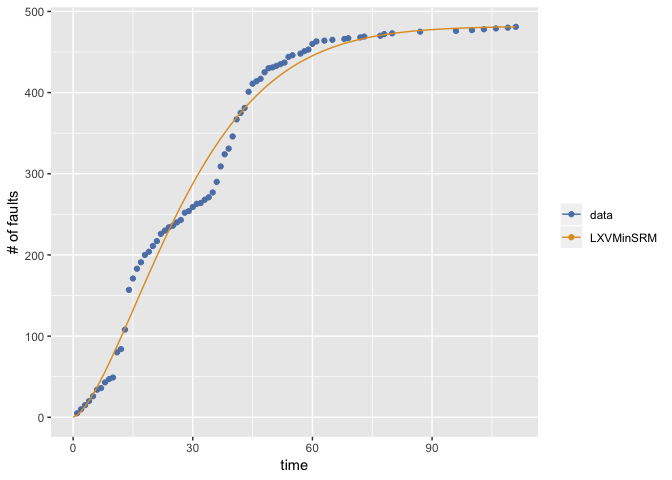
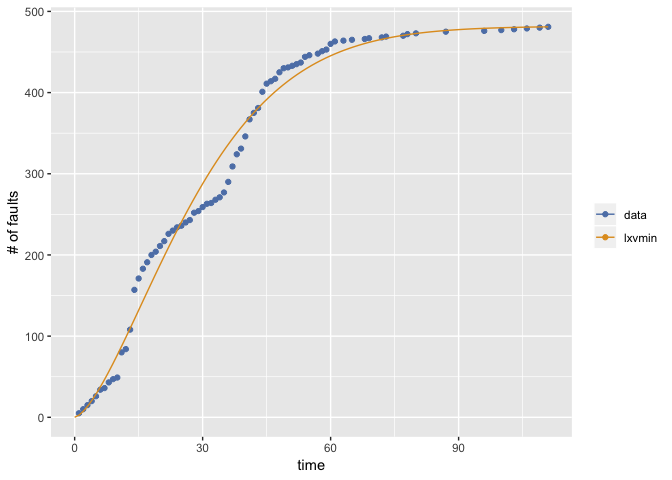
change model names and add the forth example

diff --git a/README.md b/README.md
@@ -43,7 +43,7 @@ tohma
 
 ### Esimate all models and select the best one in terms of AIC
 (result <- fit.srm.nhpp(fault=tohma))
-#> Model name: LXVMinSRM
+#> Model name: lxvmin
 #>    omega    loclog  scalelog  
 #> 481.7029   -3.4642    0.6637  
 #> Maximum LLF: -316.2599 
@@ -67,7 +67,7 @@ srm.models
 ### Estimate two models and no select
 (result <- fit.srm.nhpp(fault=tohma, srm.names=c("exp", "gamma"), selection=NULL))
 #> $exp
-#> Model name: ExpSRM
+#> Model name: exp
 #>    omega      rate  
 #> 497.2912    0.0308  
 #> Maximum LLF: -359.8777 
@@ -76,7 +76,7 @@ srm.models
 #> 
 #> 
 #> $gamma
-#> Model name: GammaSRM
+#> Model name: gamma
 #>     omega      shape       rate  
 #> 483.52301    1.88475    0.06447  
 #> Maximum LLF: -319.5695 
@@ -115,7 +115,7 @@ sys1
 (result <- fit.srm.nhpp(time=sys1[sys1>=0], te=-sys1[sys1<0]))
 #> Warning in emfit(srm, data, initialize = TRUE, maxiter = con$maxiter,
 #> reltol = con$reltol, : Did not converge to MLE by max iteration.
-#> Model name: LXVMinSRM
+#> Model name: lxvmin
 #>    omega    loclog  scalelog  
 #>  165.955   -10.640     1.453  
 #> Maximum LLF: 299.439 
@@ -127,3 +127,124 @@ mvfplot(time=sys1[sys1>=0], te=-sys1[sys1<0], mvf=list(result$srm))
 ```
 
 <img src="man/figures/README-example3-1.png" width="100%" />
+
+The fourth example illustrates the case where the mvfs for all the
+models are drawn.
+
+``` r
+### Esimate and return all the estimated results
+(result <- fit.srm.nhpp(fault=sys1g, selection=NULL))
+#> Warning in emfit(srm, data, initialize = TRUE, maxiter = con$maxiter,
+#> reltol = con$reltol, : Did not converge to MLE by max iteration.
+
+#> Warning in emfit(srm, data, initialize = TRUE, maxiter = con$maxiter,
+#> reltol = con$reltol, : Did not converge to MLE by max iteration.
+
+#> Warning in emfit(srm, data, initialize = TRUE, maxiter = con$maxiter,
+#> reltol = con$reltol, : Did not converge to MLE by max iteration.
+
+#> Warning in emfit(srm, data, initialize = TRUE, maxiter = con$maxiter,
+#> reltol = con$reltol, : Did not converge to MLE by max iteration.
+#> $exp
+#> Model name: exp
+#>     omega       rate  
+#> 4.295e+03  3.347e-04  
+#> Maximum LLF: -192.5611 
+#> AIC: 389.1221 
+#> Convergence: FALSE 
+#> 
+#> 
+#> $gamma
+#> Model name: gamma
+#>     omega      shape       rate  
+#> 5.400e+02  1.799e+00  8.543e-03  
+#> Maximum LLF: -182.2326 
+#> AIC: 370.4651 
+#> Convergence: TRUE 
+#> 
+#> 
+#> $pareto
+#> Model name: pareto
+#>    omega     shape     scale  
+#>  1179.22     56.39  44141.81  
+#> Maximum LLF: -193.7977 
+#> AIC: 393.5953 
+#> Convergence: FALSE 
+#> 
+#> 
+#> $tnorm
+#> Model name: tnorm
+#>  omega    mean      sd  
+#> 150.45   60.97   26.72  
+#> Maximum LLF: -173.955 
+#> AIC: 353.91 
+#> Convergence: TRUE 
+#> 
+#> 
+#> $lnorm
+#> Model name: lnorm
+#>    omega   meanlog     sdlog  
+#> 6188.497     8.270     1.839  
+#> Maximum LLF: -184.3571 
+#> AIC: 374.7142 
+#> Convergence: FALSE 
+#> 
+#> 
+#> $tlogis
+#> Model name: tlogis
+#>    omega  location     scale  
+#>   153.37     62.34     16.17  
+#> Maximum LLF: -172.6565 
+#> AIC: 351.313 
+#> Convergence: TRUE 
+#> 
+#> 
+#> $llogis
+#> Model name: llogis
+#>       omega  locationlog     scalelog  
+#>    392.6774       4.9056       0.5364  
+#> Maximum LLF: -181.6148 
+#> AIC: 369.2296 
+#> Convergence: TRUE 
+#> 
+#> 
+#> $txvmax
+#> Model name: txvmax
+#>  omega     loc   scale  
+#> 208.49   62.51   38.96  
+#> Maximum LLF: -177.5718 
+#> AIC: 361.1435 
+#> Convergence: TRUE 
+#> 
+#> 
+#> $lxvmax
+#> Model name: lxvmax
+#>     omega     loclog   scalelog  
+#> 18401.836     11.147      4.134  
+#> Maximum LLF: -186.8055 
+#> AIC: 379.611 
+#> Convergence: FALSE 
+#> 
+#> 
+#> $txvmin
+#> Model name: txvmin
+#>  omega     loc   scale  
+#> 136.81  -66.09   18.22  
+#> Maximum LLF: -166.5841 
+#> AIC: 339.1683 
+#> Convergence: TRUE 
+#> 
+#> 
+#> $lxvmin
+#> Model name: lxvmin
+#>    omega    loclog  scalelog  
+#> 183.4354   -4.4188    0.4831  
+#> Maximum LLF: -180.7614 
+#> AIC: 367.5227 
+#> Convergence: TRUE
+
+### Draw the graph
+mvfplot(fault=sys1g, mvf=lapply(result, function(x) x$srm))
+```
+
+<img src="man/figures/README-example4-1.png" width="100%" />

diff --git a/NEWS.md b/NEWS.md
@@ -1,3 +1,7 @@
+# Rsrat 1.5.1
+
+* Model names have been changed.
+
 # Rsrat 1.5.0
 
 * Refactor: Rsrat removes the metrics models.
